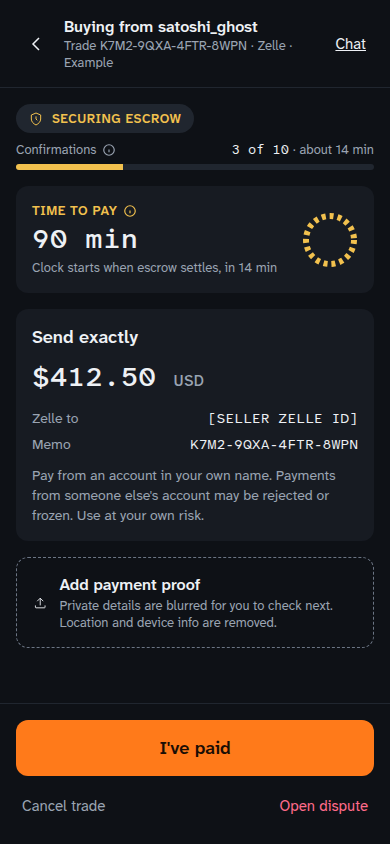
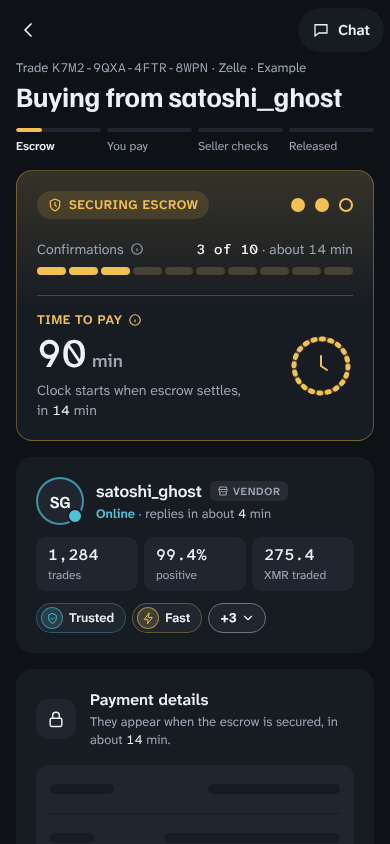
READY: BuyerPay board and parity reference refreshed for Q12 (escrow=securing)
design/x2f-app/BuyerPay.dc.html is the canvas board as published (escrow
securing: locked "Payment details" card, no I've paid). refs/BuyerPay.png
re-captured with tools/parity/capture-refs.ts; manifest updated.
serve-boards test passes.

Claude-Session: https://claude.ai/code/session_01XZAz2tn1YbpoyEtNYuAJim

diff --git a/design/x2f-app/BuyerPay.dc.html b/design/x2f-app/BuyerPay.dc.html
@@ -11,103 +11,216 @@
 <link rel="stylesheet" href="https://fonts.googleapis.com/css2?family=Familjen+Grotesk:wght@600;700&amp;family=Atkinson+Hyperlegible+Next:wght@400;600&amp;family=Atkinson+Hyperlegible+Mono:wght@400;500&amp;display=swap">
 <style>
 body{margin:0}
-a{color:#ff7a1a}a:hover{color:#ffa060}
-button:focus-visible,a:focus-visible,label:focus-within{outline:2px solid #eef1f5;outline-offset:2px}
+a{color:var(--monero-ink)}a:hover{color:var(--ink)}
+button:focus-visible,a:focus-visible,label:focus-within{outline:2px solid var(--ink);outline-offset:2px}
+button,a,label{transition:background-color 150ms ease-out,border-color 150ms ease-out,color 150ms ease-out}
+@media (prefers-reduced-motion: reduce){*{transition:none !important;animation:none !important}}
 </style>
 </helmet>
-<div style="width: 390px; height: 844px; box-sizing: border-box; background: #0e1116; color: #eef1f5; font-family: 'Atkinson Hyperlegible Next', system-ui, sans-serif; display: flex; flex-direction: column;">
-  <header style="display: flex; align-items: center; gap: 8px; padding: 16px; border-bottom: 1px solid #20262f;">
-    <a href="#" aria-label="Back to trades" style="display: flex; width: 44px; height: 44px; align-items: center; justify-content: center; color: #eef1f5;">
-      <svg width="24" height="24" viewBox="0 0 24 24" fill="none" stroke="currentColor" stroke-width="1.5" aria-hidden="true"><path d="M15 18l-6-6 6-6"/></svg>
-    </a>
-    <div style="display: flex; flex-direction: column; flex-grow: 1;">
-      <span style="font-size: 16px; font-weight: 600;">Buying from satoshi_ghost</span>
-      <span style="font-size: 13px; color: #9aa4b2;">Trade K7M2-9QXA-4FTR-8WPN · Zelle · Example</span>
+<div style="{{rootStyle}}">
+  <div style="position: relative; flex-shrink: 0; height: {{appH}}; overflow: hidden; display: flex; flex-direction: column;">
+  <header style="display: flex; flex-direction: column; padding: 8px 16px 16px;">
+    <div style="display: flex; align-items: center; justify-content: space-between; height: 44px; margin: 0 -10px;">
+      <a href="#" aria-label="Back to trades" style="display: flex; width: 44px; height: 44px; align-items: center; justify-content: center; border-radius: 12px; color: var(--ink);">
+        <svg width="24" height="24" viewBox="0 0 24 24" fill="none" stroke="currentColor" stroke-width="1.75" stroke-linecap="round" stroke-linejoin="round" aria-hidden="true"><path d="M15 18l-6-6 6-6"/></svg>
+      </a>
+      <a href="#" style="display: inline-flex; align-items: center; gap: 8px; height: 44px; padding: 0 14px; border-radius: 999px; background: var(--surface); color: var(--ink); font-size: 15px; font-weight: 600; text-decoration: none;">
+        <svg width="18" height="18" viewBox="0 0 24 24" fill="none" stroke="currentColor" stroke-width="1.75" stroke-linecap="round" stroke-linejoin="round" aria-hidden="true"><path d="M4 5h16v11H9l-5 4z"/></svg>
+        Chat
+      </a>
     </div>
-    <a href="#" style="display: flex; height: 44px; align-items: center; padding: 0 8px; font-size: 15px; color: #eef1f5;">Chat</a>
+    <span style="margin-top: 8px; font-size: 13px; line-height: 16px; color: var(--ink-muted);">Trade <span style="font-family: 'Atkinson Hyperlegible Mono', monospace; white-space: nowrap;">K7M2-9QXA-4FTR-8WPN</span> · Zelle · Example</span>
+    <h1 style="margin: 4px 0 0; font-family: 'Familjen Grotesk', sans-serif; font-size: 28px; line-height: 32px; font-weight: 700; letter-spacing: -0.01em;">Buying from satoshi_ghost</h1>
   </header>
 
-  <main style="display: flex; flex-direction: column; gap: 16px; padding: 16px; flex-grow: 1;">
-    <div style="position: relative; display: flex; gap: 8px; flex-wrap: wrap;">
-      <span style="display: inline-flex; align-items: center; gap: 8px; padding: 6px 12px; border-radius: 999px; background: #20262f; color: #f2c14e; font-size: 13px; font-weight: 600; letter-spacing: 0.04em; text-transform: uppercase;">
-        <svg width="16" height="16" viewBox="0 0 24 24" fill="none" stroke="currentColor" stroke-width="1.5" aria-hidden="true"><path d="M12 3l7 3v6c0 4-3 7-7 9-4-2-7-5-7-9V6z"/><path d="M12 8v4l2 2"/></svg>
-        Securing escrow
-      </span>
+  <ol aria-label="Trade progress" style="display: grid; grid-template-columns: repeat(4, 1fr); gap: 6px; margin: 0; padding: 0 16px 16px; list-style: none;">
+    <sc-for list="{{steps}}" as="s" hint-placeholder-count="4">
+      <li aria-current="{{s.current}}" style="display: flex; flex-direction: column; gap: 6px;">
+        <span style="display: block; height: 4px; border-radius: 999px; background: var(--surface-raised); overflow: hidden;"><span style="{{s.barStyle}}"></span></span>
+        <span style="{{s.labelStyle}}">{{s.label}}</span>
+      </li>
+    </sc-for>
+  </ol>
+
+  <main style="display: flex; flex-direction: column; gap: 16px; padding: 0 16px 24px; flex-grow: 1;">
+    <section aria-label="Escrow and payment time" style="display: flex; flex-direction: column; gap: 16px; padding: 20px; border-radius: 16px; background: linear-gradient(180deg, color-mix(in srgb, var(--caution) 14%, var(--surface)) 0%, var(--surface) 140px); border: 1px solid color-mix(in srgb, var(--caution) 35%, transparent);">
+      <div style="display: flex; align-items: center; justify-content: space-between; gap: 8px;">
+<sc-if value="{{securing}}" hint-placeholder-val="{{true}}">        <span style="display: inline-flex; align-items: center; gap: 6px; height: 28px; padding: 0 10px; border-radius: 999px; background: color-mix(in srgb, var(--caution) 14%, transparent); color: var(--caution); font-size: 13px; line-height: 16px; font-weight: 600; letter-spacing: 0.04em; text-transform: uppercase;">
+          <svg width="16" height="16" viewBox="0 0 24 24" fill="none" stroke="currentColor" stroke-width="1.75" stroke-linecap="round" stroke-linejoin="round" aria-hidden="true"><path d="M12 3l7 3v6c0 4-3 7-7 9-4-2-7-5-7-9V6z"/><path d="M12 8v4l2 2"/></svg>
+          Securing escrow
+        </span></sc-if>
+        <sc-if value="{{secured}}" hint-placeholder-val="{{false}}"><span style="display: inline-flex; align-items: center; gap: 6px; height: 28px; padding: 0 10px; border-radius: 999px; background: color-mix(in srgb, var(--caution) 14%, transparent); color: var(--caution); font-size: 13px; line-height: 16px; font-weight: 600; letter-spacing: 0.04em; text-transform: uppercase;"><svg width="16" height="16" viewBox="0 0 24 24" fill="none" stroke="currentColor" stroke-width="1.75" stroke-linecap="round" stroke-linejoin="round" aria-hidden="true"><circle cx="12" cy="12" r="9"/><path d="M12 7v5l3 2"/></svg>Pay now</span></sc-if>
+        <svg style="color: var(--caution);" width="62" height="14" viewBox="0 0 62 14" aria-hidden="true"><circle cx="7" cy="7" r="7" fill="currentColor"/><circle cx="31" cy="7" r="7" fill="currentColor"/><circle cx="55" cy="7" r="6" fill="none" stroke="currentColor" stroke-width="2"/></svg>
+      </div>
+
       <span style="position: relative; display: flex; width: 100%;">
-        <button type="button" aria-describedby="tip-rel" onMouseEnter="{{showRel}}" onMouseLeave="{{hide}}" onClick="{{toggleRel}}" style="display: flex; flex-direction: column; gap: 6px; width: 100%; padding: 0; border: 0; background: transparent; color: #9aa4b2; font-family: inherit; text-align: left; cursor: help;">
-          <span style="display: flex; justify-content: space-between; align-items: center; width: 100%; font-size: 13px;">
+        <button type="button" aria-describedby="tip-rel" onMouseEnter="{{showRel}}" onMouseLeave="{{hide}}" onClick="{{toggleRel}}" style="display: flex; flex-direction: column; justify-content: center; gap: 8px; width: 100%; min-height: 44px; padding: 0; border: 0; background: transparent; color: var(--ink-muted); font-family: inherit; text-align: left; cursor: help;">
+          <span style="display: flex; justify-content: space-between; align-items: center; width: 100%; font-size: 14px; line-height: 20px;">
             <span style="display: inline-flex; align-items: center; gap: 6px;">Confirmations
               <svg width="14" height="14" viewBox="0 0 24 24" fill="none" stroke="currentColor" stroke-width="2" aria-hidden="true"><circle cx="12" cy="12" r="9"/><path d="M12 11v5"/><path d="M12 8h.01"/></svg>
             </span>
-            <span><span style="font-family: 'Atkinson Hyperlegible Mono', monospace; color: #eef1f5;">3 of 10</span> · about 14 min</span>
+            <sc-if value="{{securing}}" hint-placeholder-val="{{true}}"><span><span style="font-family: 'Atkinson Hyperlegible Mono', monospace; font-weight: 500; color: var(--ink);">3 of 10</span> · about <span style="font-family: 'Atkinson Hyperlegible Mono', monospace;">14</span> min</span></sc-if><sc-if value="{{secured}}" hint-placeholder-val="{{false}}"><span><span style="font-family: 'Atkinson Hyperlegible Mono', monospace; font-weight: 500; color: var(--ink);">10 of 10</span> · secured</span></sc-if>
           </span>
-          <span role="progressbar" aria-label="Escrow confirmations" aria-valuemin="0" aria-valuemax="10" aria-valuenow="3" style="display: block; width: 100%; height: 6px; border-radius: 999px; background: #20262f; overflow: hidden;"><span style="display: block; width: 30%; height: 100%; background: #f2c14e;"></span></span>
+          <span role="progressbar" aria-label="Escrow confirmations" aria-valuemin="0" aria-valuemax="10" aria-valuenow="{{confNow}}" style="display: grid; grid-template-columns: repeat(10, 1fr); gap: 3px; width: 100%; height: 8px;">
+            <sc-for list="{{confs}}" as="c" hint-placeholder-count="10"><span style="{{c.style}}"></span></sc-for>
+          </span>
         </button>
         <sc-if value="{{relOpen}}" hint-placeholder-val="{{false}}">
-          <span id="tip-rel" role="tooltip" style="position: absolute; top: calc(100% + 8px); left: 0; z-index: 10; width: 300px; box-sizing: border-box; padding: 12px; border-radius: 12px; background: #20262f; border: 1px solid #6b7584; color: #eef1f5; font-size: 14px; line-height: 20px; font-weight: 400; letter-spacing: 0; text-transform: none;">The seller's XMR is already locked in the escrow. It's secured once the Monero network confirms it 10 times, about 20 min in total. For the safest trade, wait until this finishes before you pay. If you're comfortable with this seller, feel free to move the trade along now.</span>
+          <span id="tip-rel" role="tooltip" style="position: absolute; top: calc(100% + 8px); left: 0; z-index: 10; width: 300px; box-sizing: border-box; padding: 12px; border-radius: 12px; background: var(--surface-raised); border: 1px solid var(--line); color: var(--ink); font-size: 14px; line-height: 20px; font-weight: 400; letter-spacing: 0; text-transform: none;">The seller's XMR is already locked in the escrow. It's secured once the Monero network confirms it <span style="font-family: 'Atkinson Hyperlegible Mono', monospace;">10</span> times, about <span style="font-family: 'Atkinson Hyperlegible Mono', monospace;">20</span> min in total. For the safest trade, wait until this finishes before you pay. If you're comfortable with this seller, feel free to move the trade along now.</span>
         </sc-if>
       </span>
-    </div>
 
-    <section aria-label="Payment timer" style="position: relative; display: flex; align-items: center; justify-content: space-between; padding: 16px; border-radius: 12px; background: #171b22;">
-      <button type="button" aria-describedby="tip-pay" onMouseEnter="{{showPay}}" onMouseLeave="{{hide}}" onClick="{{togglePay}}" style="display: flex; flex-direction: column; align-items: flex-start; gap: 4px; padding: 0; border: 0; background: transparent; color: #eef1f5; font-family: inherit; text-align: left; cursor: help;">
-        <span style="display: inline-flex; align-items: center; gap: 6px; font-size: 13px; font-weight: 600; letter-spacing: 0.04em; text-transform: uppercase; color: #f2c14e;">Time to pay
-          <svg width="14" height="14" viewBox="0 0 24 24" fill="none" stroke="currentColor" stroke-width="2" aria-hidden="true"><circle cx="12" cy="12" r="9"/><path d="M12 11v5"/><path d="M12 8h.01"/></svg>
-        </span>
-        <span style="font-family: 'Atkinson Hyperlegible Mono', monospace; font-size: 28px; line-height: 32px; font-weight: 500;">90 min</span>
-        <span style="font-size: 13px; line-height: 18px; color: #9aa4b2;">Clock starts when escrow settles, in 14 min</span>
-      </button>
-      <sc-if value="{{payOpen}}" hint-placeholder-val="{{false}}">
-        <span id="tip-pay" role="tooltip" style="position: absolute; top: calc(100% + 8px); left: 0; z-index: 10; width: 280px; padding: 12px; border-radius: 12px; background: #20262f; border: 1px solid #6b7584; color: #eef1f5; font-size: 14px; line-height: 20px;">You get 90 minutes to send the money and tap I've paid. The clock starts once the escrow has settled, so waiting for it never costs you time. If time runs out without that tap, the seller can cancel and get a refund, or give you more time.</span>
-      </sc-if>
-      <svg width="56" height="56" viewBox="0 0 56 56" role="img" aria-label="90 of 90 minutes left, not started">
-        <circle cx="28" cy="28" r="24" fill="none" stroke="#f2c14e" stroke-width="6" stroke-dasharray="4 4"/>
-      </svg>
+      <div style="height: 1px; background: color-mix(in srgb, var(--caution) 25%, transparent);"></div>
+
+      <div style="position: relative; display: flex; align-items: center; justify-content: space-between; gap: 12px;">
+        <button type="button" aria-describedby="tip-pay" onMouseEnter="{{showPay}}" onMouseLeave="{{hide}}" onClick="{{togglePay}}" style="display: flex; flex-direction: column; align-items: flex-start; gap: 4px; padding: 0; border: 0; background: transparent; color: var(--ink); font-family: inherit; text-align: left; cursor: help;">
+          <span style="display: inline-flex; align-items: center; gap: 6px; font-size: 13px; line-height: 16px; font-weight: 600; letter-spacing: 0.04em; text-transform: uppercase; color: var(--caution);">Time to pay
+            <svg width="14" height="14" viewBox="0 0 24 24" fill="none" stroke="currentColor" stroke-width="2" aria-hidden="true"><circle cx="12" cy="12" r="9"/><path d="M12 11v5"/><path d="M12 8h.01"/></svg>
+          </span>
+          <span style="display: inline-flex; align-items: baseline; gap: 6px;"><span style="font-family: 'Atkinson Hyperlegible Mono', monospace; font-size: 40px; line-height: 44px; font-weight: 500; letter-spacing: -0.02em;">{{payMin}}</span><span style="font-size: 18px; line-height: 24px; font-weight: 600; color: var(--ink-muted);">min</span></span>
+          <sc-if value="{{securing}}" hint-placeholder-val="{{true}}"><span style="font-size: 14px; line-height: 20px; color: var(--ink-muted);">Clock starts when escrow settles, <span style="white-space: nowrap;">in <span style="font-family: 'Atkinson Hyperlegible Mono', monospace; color: var(--ink);">14</span> min</span></span></sc-if>
+        </button>
+        <sc-if value="{{payOpen}}" hint-placeholder-val="{{false}}">
+          <span id="tip-pay" role="tooltip" style="position: absolute; top: calc(100% + 8px); left: 0; z-index: 10; width: 280px; padding: 12px; border-radius: 12px; background: var(--surface-raised); border: 1px solid var(--line); color: var(--ink); font-size: 14px; line-height: 20px;">You get <span style="font-family: 'Atkinson Hyperlegible Mono', monospace;">90</span> min to send the money and tap I've paid. The clock starts once the escrow has settled, so waiting for it never costs you time. If time runs out without that tap, the seller can cancel and get a refund, or give you more time.</span>
+        </sc-if>
+<sc-if value="{{securing}}" hint-placeholder-val="{{true}}">        <svg style="flex-shrink: 0;" width="64" height="64" viewBox="0 0 64 64" role="img" aria-label="90 of 90 minutes left, not started">
+          <circle style="color: var(--caution);" cx="32" cy="32" r="27" fill="none" stroke="currentColor" stroke-opacity="0.2" stroke-width="5"/>
+          <circle style="color: var(--caution);" cx="32" cy="32" r="27" fill="none" stroke="currentColor" stroke-width="5" stroke-dasharray="2 6.48" stroke-linecap="round"/>
+          <path style="color: var(--caution);" d="M32 22v10l6 4" fill="none" stroke="currentColor" stroke-width="2" stroke-linecap="round" stroke-linejoin="round"/>
+        </svg></sc-if>
+        <sc-if value="{{secured}}" hint-placeholder-val="{{false}}"><svg style="flex-shrink: 0;" width="64" height="64" viewBox="0 0 64 64" role="img" aria-label="89 of 90 minutes left to pay"><circle style="color: var(--caution);" cx="32" cy="32" r="27" fill="none" stroke="currentColor" stroke-opacity="0.2" stroke-width="5"/><circle style="color: var(--caution);" cx="32" cy="32" r="27" fill="none" stroke="currentColor" stroke-width="5" stroke-linecap="round" stroke-dasharray="167.7 169.6" transform="rotate(-90 32 32)"/></svg></sc-if>
+      </div>
     </section>
 
-    <section aria-label="Send this payment" style="display: flex; flex-direction: column; gap: 12px; padding: 16px; border-radius: 12px; background: #171b22;">
-      <h2 style="margin: 0; font-size: 18px; line-height: 24px; font-weight: 600;">Send exactly</h2>
-      <span style="font-family: 'Atkinson Hyperlegible Mono', monospace; font-size: 28px; line-height: 32px; font-weight: 500;">$412.50 <span style="font-size: 16px; color: #9aa4b2;">USD</span></span>
-      <div style="display: flex; flex-direction: column; gap: 8px; font-size: 14px;">
-        <div style="display: flex; justify-content: space-between; gap: 8px;"><span style="color: #9aa4b2;">Zelle to</span><span style="font-family: 'Atkinson Hyperlegible Mono', monospace;">[SELLER ZELLE ID]</span></div>
-        <div style="display: flex; justify-content: space-between; gap: 8px;"><span style="color: #9aa4b2;">Memo</span><span style="font-family: 'Atkinson Hyperlegible Mono', monospace;">K7M2-9QXA-4FTR-8WPN</span></div>
+    <section aria-label="Seller" style="display: flex; flex-direction: column; padding: 20px; border-radius: 16px; background: var(--surface);"><div style="display: flex; flex-direction: column; gap: 12px;"><div style="display: flex; align-items: center; gap: 12px;"><span style="position: relative; display: flex; flex-shrink: 0; width: 48px; height: 48px; box-sizing: border-box; align-items: center; justify-content: center; border-radius: 999px; background: var(--surface-raised); border: 2px solid color-mix(in srgb, var(--escrow) 70%, transparent); font-family: 'Familjen Grotesk', sans-serif; font-size: 17px; font-weight: 700; letter-spacing: -0.01em;">SG<span aria-label="Online" style="position: absolute; right: -1px; bottom: -1px; width: 12px; height: 12px; border-radius: 999px; background: var(--escrow); border: 2.5px solid var(--surface);"></span></span><span style="display: flex; flex-direction: column; gap: 3px; min-width: 0;"><span style="display: flex; align-items: center; gap: 8px;"><span style="font-size: 17px; line-height: 22px; font-weight: 600;">satoshi_ghost</span><span style="display: inline-flex; align-items: center; gap: 4px; height: 20px; padding: 0 7px; border-radius: 6px; background: color-mix(in srgb, var(--ink) 8%, transparent); color: var(--ink-muted); font-size: 11px; line-height: 14px; font-weight: 600; letter-spacing: 0.06em; text-transform: uppercase;"><svg width="12" height="12" viewBox="0 0 24 24" fill="none" stroke="currentColor" stroke-width="2" stroke-linecap="round" stroke-linejoin="round" aria-hidden="true"><path d="M4 9l1.5-5h13L20 9"/><path d="M4 9h16v2a3 3 0 01-5.3 1.9A3 3 0 0112 14a3 3 0 01-2.7-1.1A3 3 0 014 11z"/><path d="M5.5 14v6h13v-6"/></svg>Vendor</span></span><span style="font-size: 13px; line-height: 18px; color: var(--ink-muted);"><span style="color: var(--escrow); font-weight: 600;">Online</span> · replies in about <span style="font-family: 'Atkinson Hyperlegible Mono', monospace; color: var(--ink);">4</span> min</span></span></div><div style="display: grid; grid-template-columns: repeat(3, 1fr); gap: 6px;"><span style="display: flex; flex-direction: column; gap: 2px; padding: 8px 12px; border-radius: 10px; background: var(--surface-raised); min-width: 0;"><span style="font-family: 'Atkinson Hyperlegible Mono', monospace; font-size: 16px; line-height: 20px; font-weight: 500;">1,284</span><span style="font-size: 12px; line-height: 16px; color: var(--ink-muted);">trades</span></span><span style="display: flex; flex-direction: column; gap: 2px; padding: 8px 12px; border-radius: 10px; background: var(--surface-raised); min-width: 0;"><span style="font-family: 'Atkinson Hyperlegible Mono', monospace; font-size: 16px; line-height: 20px; font-weight: 500;">99.4%</span><span style="font-size: 12px; line-height: 16px; color: var(--ink-muted);">positive</span></span><span style="display: flex; flex-direction: column; gap: 2px; padding: 8px 12px; border-radius: 10px; background: var(--surface-raised); min-width: 0;"><span style="font-family: 'Atkinson Hyperlegible Mono', monospace; font-size: 16px; line-height: 20px; font-weight: 500;">275.4</span><span style="font-size: 12px; line-height: 16px; color: var(--ink-muted);">XMR traded</span></span></div><div style="display: flex; flex-wrap: wrap; gap: 6px; align-items: center;"><button type="button" aria-haspopup="dialog" aria-label="Trusted badge: 200+ trades and 98%+ positive." style="display: inline-flex; align-items: center; height: 44px; margin: -7px 0; padding: 0; border: 0; background: transparent; color: inherit; font: inherit; cursor: pointer;"><span style="display: inline-flex; align-items: center; gap: 6px; height: 30px; padding: 0 11px 0 4px; box-sizing: border-box; border-radius: 999px; background: var(--surface-raised); border: 1px solid color-mix(in srgb, var(--escrow) 32%, transparent); font-size: 13px; line-height: 16px; font-weight: 600; color: var(--ink); white-space: nowrap;"><span aria-hidden="true" style="display: flex; flex-shrink: 0; width: 22px; height: 22px; box-sizing: border-box; align-items: center; justify-content: center; border-radius: 999px; background: color-mix(in srgb, var(--escrow) 16%, var(--surface-raised)); border: 1px solid color-mix(in srgb, var(--escrow) 55%, transparent); color: var(--escrow);"><svg width="13" height="13" viewBox="0 0 24 24" fill="none" stroke="currentColor" stroke-width="1.75" stroke-linecap="round" stroke-linejoin="round" aria-hidden="true"><path d="M12 3l7 3v6c0 4-3 7-7 9-4-2-7-5-7-9V6z"/><path d="M9 12l2 2 4-4"/></svg></span>Trusted</span></button><button type="button" aria-haspopup="dialog" aria-label="Fast badge: Usually pays or releases within 10 min." style="display: inline-flex; align-items: center; height: 44px; margin: -7px 0; padding: 0; border: 0; background: transparent; color: inherit; font: inherit; cursor: pointer;"><span style="display: inline-flex; align-items: center; gap: 6px; height: 30px; padding: 0 11px 0 4px; box-sizing: border-box; border-radius: 999px; background: var(--surface-raised); border: 1px solid color-mix(in srgb, var(--caution) 32%, transparent); font-size: 13px; line-height: 16px; font-weight: 600; color: var(--ink); white-space: nowrap;"><span aria-hidden="true" style="display: flex; flex-shrink: 0; width: 22px; height: 22px; box-sizing: border-box; align-items: center; justify-content: center; border-radius: 999px; background: color-mix(in srgb, var(--caution) 16%, var(--surface-raised)); border: 1px solid color-mix(in srgb, var(--caution) 55%, transparent); color: var(--caution);"><svg width="13" height="13" viewBox="0 0 24 24" fill="none" stroke="currentColor" stroke-width="1.75" stroke-linecap="round" stroke-linejoin="round" aria-hidden="true"><path d="M13 2L4 14h7l-1 8 9-12h-7z"/></svg></span>Fast</span></button><button type="button" aria-haspopup="dialog" aria-expanded="false" aria-label="3 more badges" style="display: inline-flex; align-items: center; height: 44px; margin: -7px 0; padding: 0; border: 0; background: transparent; color: inherit; font: inherit; cursor: pointer;"><span style="display: inline-flex; align-items: center; gap: 4px; height: 30px; padding: 0 10px 0 11px; box-sizing: border-box; border-radius: 999px; border: 1px solid var(--line); background: var(--surface-raised); color: var(--ink); font-size: 13px; line-height: 16px; font-weight: 600;"><span style="font-family: 'Atkinson Hyperlegible Mono', monospace;">+3</span><svg width="14" height="14" viewBox="0 0 24 24" fill="none" stroke="currentColor" stroke-width="2" stroke-linecap="round" stroke-linejoin="round" aria-hidden="true"><path d="M6 9l6 6 6-6"/></svg></span></button></div></div></section>
+
+    <sc-if value="{{securing}}" hint-placeholder-val="{{true}}">
+    <section aria-labelledby="send-title-locked" style="display: flex; flex-direction: column; gap: 16px; padding: 20px; border-radius: 16px; background: var(--surface);">
+      <div style="display: flex; align-items: center; gap: 14px;"><span style="display: flex; flex-shrink: 0; width: 40px; height: 40px; align-items: center; justify-content: center; border-radius: 12px; background: var(--surface-raised); color: var(--ink);"><svg width="20" height="20" viewBox="0 0 24 24" fill="none" stroke="currentColor" stroke-width="1.75" stroke-linecap="round" stroke-linejoin="round" aria-hidden="true"><rect x="5" y="11" width="14" height="10" rx="2"/><path d="M8 11V8a4 4 0 018 0v3"/></svg></span><span style="display: flex; flex-direction: column; gap: 2px; min-width: 0;"><h2 id="send-title-locked" style="margin: 0; font-size: 16px; line-height: 22px; font-weight: 600;">Payment details</h2><span style="font-size: 13px; line-height: 18px; color: var(--ink-muted);">They appear when the escrow is secured, in about <span style="font-family: 'Atkinson Hyperlegible Mono', monospace; color: var(--ink);">14</span> min.</span></span></div>
+      <div aria-hidden="true" style="display: flex; flex-direction: column; border-radius: 12px; background: var(--surface-raised);"><div style="display: flex; justify-content: space-between; align-items: center; gap: 8px; min-height: 48px; padding: 0 14px;"><span style="display: block; width: 64px; height: 10px; border-radius: 999px; background: var(--surface);"></span><span style="display: block; width: 132px; height: 10px; border-radius: 999px; background: var(--surface);"></span></div><div style="height: 1px; margin: 0 14px; background: var(--surface);"></div><div style="display: flex; justify-content: space-between; align-items: center; gap: 8px; min-height: 48px; padding: 0 14px;"><span style="display: block; width: 44px; height: 10px; border-radius: 999px; background: var(--surface);"></span><span style="display: block; width: 176px; height: 10px; border-radius: 999px; background: var(--surface);"></span></div></div>
+      <div style="display: flex; gap: 10px; align-items: flex-start; padding: 12px 14px; border-radius: 12px; background: color-mix(in srgb, var(--caution) 10%, var(--surface)); border: 1px solid color-mix(in srgb, var(--caution) 30%, transparent);">
+        <svg style="flex-shrink: 0; margin-top: 1px; color: var(--caution);" width="18" height="18" viewBox="0 0 24 24" fill="none" stroke="currentColor" stroke-width="1.75" stroke-linecap="round" stroke-linejoin="round" aria-hidden="true"><path d="M12 4l9 16H3z"/><path d="M12 10v4"/><path d="M12 17h.01"/></svg>
+        <p style="margin: 0; font-size: 14px; line-height: 20px; color: var(--ink);">Pay from an account in your own name. Payments from someone else's account may be rejected or frozen. Use at your own risk.</p>
       </div>
-      <p style="margin: 0; font-size: 14px; line-height: 20px; color: #9aa4b2;">Pay from an account in your own name. Payments from someone else's account may be rejected or frozen. Use at your own risk.</p>
+    </section>
+    </sc-if>
+    <sc-if value="{{secured}}" hint-placeholder-val="{{false}}">
+    <section aria-labelledby="send-title" style="display: flex; flex-direction: column; gap: 16px; padding: 20px; border-radius: 16px; background: var(--surface);">
+      <div style="display: flex; flex-direction: column; gap: 4px;">
+        <h2 id="send-title" style="margin: 0; font-size: 18px; line-height: 24px; font-weight: 600;">Send exactly</h2>
+        <span style="display: inline-flex; align-items: baseline; gap: 8px;"><span style="font-family: 'Atkinson Hyperlegible Mono', monospace; font-size: 40px; line-height: 44px; font-weight: 500; letter-spacing: -0.02em;">$412.50</span><span style="font-size: 16px; line-height: 24px; font-weight: 600; color: var(--ink-muted);">USD</span></span>
+      </div>
+      <dl style="display: flex; flex-direction: column; margin: 0; border-radius: 12px; background: var(--surface-raised);">
+        <div style="display: flex; justify-content: space-between; align-items: center; gap: 8px; min-height: 48px; padding: 0 14px; font-size: 14px; line-height: 20px;"><dt style="color: var(--ink-muted);">Zelle to</dt><dd style="margin: 0; font-family: 'Atkinson Hyperlegible Mono', monospace; font-size: 15px; font-weight: 500;">•••-•••-4471</dd></div>
+        <div style="height: 1px; margin: 0 14px; background: var(--surface);"></div>
+        <div style="display: flex; justify-content: space-between; align-items: center; gap: 8px; min-height: 48px; padding: 0 14px; font-size: 14px; line-height: 20px;"><dt style="color: var(--ink-muted);">Memo</dt><dd style="margin: 0; font-family: 'Atkinson Hyperlegible Mono', monospace; font-size: 15px; font-weight: 500;">K7M2-9QXA-4FTR-8WPN</dd></div>
+      </dl>
+      <div style="display: flex; gap: 10px; align-items: flex-start; padding: 12px 14px; border-radius: 12px; background: color-mix(in srgb, var(--caution) 10%, var(--surface)); border: 1px solid color-mix(in srgb, var(--caution) 30%, transparent);">
+        <svg style="flex-shrink: 0; margin-top: 1px; color: var(--caution);" width="18" height="18" viewBox="0 0 24 24" fill="none" stroke="currentColor" stroke-width="1.75" stroke-linecap="round" stroke-linejoin="round" aria-hidden="true"><path d="M12 4l9 16H3z"/><path d="M12 10v4"/><path d="M12 17h.01"/></svg>
+        <p style="margin: 0; font-size: 14px; line-height: 20px; color: var(--ink);">Pay from an account in your own name. Payments from someone else's account may be rejected or frozen. Use at your own risk.</p>
+      </div>
     </section>
 
     <div style="position: relative;">
     <sc-if value="{{proofOpen}}" hint-placeholder-val="{{false}}">
-      <span id="tip-proof" role="tooltip" style="position: absolute; bottom: calc(100% + 8px); left: 0; right: 0; z-index: 10; padding: 12px; border-radius: 12px; background: #20262f; border: 1px solid #6b7584; color: #eef1f5; font-size: 14px; line-height: 20px;">Our system does its best to blur out private, personal and confidential information automatically, but please double-check every detail yourself before you send it.</span>
+      <span id="tip-proof" role="tooltip" style="position: absolute; bottom: calc(100% + 8px); left: 0; right: 0; z-index: 10; padding: 12px; border-radius: 12px; background: var(--surface-raised); border: 1px solid var(--line); color: var(--ink); font-size: 14px; line-height: 20px;">Our system does its best to blur out private, personal and confidential information automatically, but please double-check every detail yourself before you send it.</span>
     </sc-if>
-    <label for="proof" onMouseEnter="{{showProof}}" onMouseLeave="{{hide}}" style="display: flex; align-items: center; gap: 12px; padding: 16px; border-radius: 12px; border: 1px dashed #6b7584; cursor: pointer;">
-      <svg width="24" height="24" viewBox="0 0 24 24" fill="none" stroke="#eef1f5" stroke-width="1.5" aria-hidden="true"><path d="M12 16V4"/><path d="M7 9l5-5 5 5"/><path d="M4 16v3a1 1 0 001 1h14a1 1 0 001-1v-3"/></svg>
+    <label for="proof" onMouseEnter="{{showProof}}" onMouseLeave="{{hide}}" style="display: flex; align-items: center; gap: 14px; min-height: 64px; padding: 16px; border-radius: 16px; border: 1.5px dashed var(--line); cursor: pointer;">
+      <span style="display: flex; flex-shrink: 0; width: 40px; height: 40px; align-items: center; justify-content: center; border-radius: 12px; background: var(--surface-raised); color: var(--ink);">
+        <svg width="20" height="20" viewBox="0 0 24 24" fill="none" stroke="currentColor" stroke-width="1.75" stroke-linecap="round" stroke-linejoin="round" aria-hidden="true"><path d="M12 16V4"/><path d="M7 9l5-5 5 5"/><path d="M4 16v3a1 1 0 001 1h14a1 1 0 001-1v-3"/></svg>
+      </span>
       <span style="display: flex; flex-direction: column; gap: 2px;">
-        <span style="font-size: 16px; font-weight: 600;">Add payment proof</span>
-        <span style="font-size: 13px; color: #9aa4b2;">Private details are blurred for you to check next. Location and device info are removed.</span>
+        <span style="font-size: 16px; line-height: 22px; font-weight: 600;">Add payment proof</span>
+        <span style="font-size: 13px; line-height: 18px; color: var(--ink-muted);">Private details are blurred for you to check next. Location and device info are removed.</span>
       </span>
       <input id="proof" type="file" accept="image/*" aria-describedby="tip-proof" style="position: absolute; width: 1px; height: 1px; opacity: 0;">
     </label>
     </div>
+    </sc-if>
   </main>
 
-  <footer style="display: flex; flex-direction: column; gap: 8px; padding: 16px; border-top: 1px solid #20262f;">
-    <a href="SellerConfirm.dc.html" style="display: flex; align-items: center; justify-content: center; height: 56px; border-radius: 12px; background: #ff7a1a; color: #1a0e05; font-size: 18px; font-weight: 600; text-decoration: none;">I've paid</a>
+  <footer style="display: flex; flex-direction: column; gap: 4px; padding: 16px 16px 8px; border-top: 1px solid var(--surface-raised); background: var(--ground);">
+<sc-if value="{{secured}}" hint-placeholder-val="{{false}}">    <button type="button" onClick="{{openConfirm}}" style="display: flex; align-items: center; justify-content: center; height: 56px; border: 0; border-radius: 12px; background: var(--monero); color: var(--on-monero); font-family: inherit; font-size: 18px; font-weight: 600; cursor: pointer;">I've paid</button></sc-if>
+    <sc-if value="{{securing}}" hint-placeholder-val="{{true}}"><button type="button" disabled aria-describedby="pay-when" style="height: 56px; border: 0; border-radius: 12px; background: var(--surface-raised); color: var(--ink-muted); font-family: inherit; font-size: 18px; font-weight: 600; cursor: not-allowed;">I've paid</button><span id="pay-when" style="padding: 4px 8px 0; font-size: 13px; line-height: 18px; color: var(--ink-muted); text-align: center;">Opens once the escrow is secured.</span></sc-if>
     <div style="display: flex; justify-content: space-between;">
-      <button type="button" style="height: 44px; border: 0; background: transparent; color: #9aa4b2; font-family: inherit; font-size: 15px; cursor: pointer;">Cancel trade</button>
-      <button type="button" style="height: 44px; border: 0; background: transparent; color: #ff6b8a; font-family: inherit; font-size: 15px; cursor: pointer;">Open dispute</button>
+      <a href="CancelRequest.dc.html" style="display: inline-flex; align-items: center; height: 44px; padding: 0 8px; color: var(--ink-muted); font-size: 15px; font-weight: 600; text-decoration: none;">Cancel trade</a>
+      <button type="button" style="height: 44px; padding: 0 8px; border: 0; background: transparent; color: var(--danger); font-family: inherit; font-size: 15px; font-weight: 600; cursor: pointer;">Open dispute</button>
     </div>
   </footer>
+
+  <sc-if value="{{confirmOpen}}" hint-placeholder-val="{{false}}">
+    <div style="position: absolute; inset: 0; background: var(--scrim); display: flex; align-items: flex-end;">
+      <section role="dialog" aria-modal="true" aria-labelledby="paid-title" style="width: 100%; box-sizing: border-box; padding: 12px 16px 16px; border-radius: 16px 16px 0 0; background: var(--surface); border-top: 1px solid var(--surface-raised); display: flex; flex-direction: column; gap: 16px;">
+        <span aria-hidden="true" style="align-self: center; width: 36px; height: 4px; border-radius: 999px; background: var(--line);"></span>
+        <h2 id="paid-title" style="margin: 4px 0 0; font-family: 'Familjen Grotesk', sans-serif; font-size: 24px; line-height: 30px; font-weight: 700; letter-spacing: -0.01em;">Mark this trade as paid?</h2>
+        <label for="paid-check" style="{{tickBoxStyle}}">
+          <input id="paid-check" type="checkbox" checked="{{ticked}}" onChange="{{toggleTick}}" style="width: 22px; height: 22px; margin: 1px 0 0; accent-color: var(--ink); flex-shrink: 0;">
+          <span>I sent exactly <strong style="font-family: 'Atkinson Hyperlegible Mono', monospace; font-weight: 500;">$412.50</strong> by Zelle with the memo <span style="font-family: 'Atkinson Hyperlegible Mono', monospace; white-space: nowrap;">K7M2-9QXA-4FTR-8WPN</span>.</span>
+        </label>
+        <p style="margin: 0; font-size: 15px; line-height: 22px; color: var(--ink-muted);">After this you can't cancel the trade. If something goes wrong, open a dispute.</p>
+        <div style="display: flex; flex-direction: column; gap: 8px;">
+          <sc-if value="{{ticked}}" hint-placeholder-val="{{false}}">
+            <a href="SellerConfirm.dc.html" style="display: flex; align-items: center; justify-content: center; height: 56px; border-radius: 12px; background: var(--monero); color: var(--on-monero); font-size: 18px; font-weight: 600; text-decoration: none;">Yes, mark as paid</a>
+          </sc-if>
+          <sc-if value="{{notTicked}}" hint-placeholder-val="{{true}}">
+            <button type="button" disabled style="height: 56px; border: 0; border-radius: 12px; background: var(--surface-raised); color: var(--ink-muted); font-family: inherit; font-size: 18px; font-weight: 600; cursor: not-allowed;">Yes, mark as paid</button>
+          </sc-if>
+          <button type="button" onClick="{{closeConfirm}}" style="height: 48px; border: 1px solid var(--line); border-radius: 12px; background: transparent; color: var(--ink); font-family: inherit; font-size: 16px; font-weight: 600; cursor: pointer;">Not yet</button>
+        </div>
+      </section>
+    </div>
+  </sc-if>
+  </div>
+
+  <section aria-label="Design notes" style="flex-shrink: 0; display: flex; flex-direction: column; gap: 12px; padding: 24px 16px; border-top: 1px solid var(--line);">
+    <h2 style="margin: 0; font-family: 'Atkinson Hyperlegible Mono', monospace; font-size: 12px; line-height: 16px; font-weight: 500; letter-spacing: 0.04em; text-transform: uppercase; color: var(--ink-muted);">Design notes</h2>
+    <aside aria-label="Decided by the owner: Nothing tells the buyer to pay until the escrow is fully in" style="display: flex; flex-direction: column; gap: 6px; padding: 10px 12px; border-radius: 6px; border: 1px solid var(--line); font-size: 13px; line-height: 18px; color: var(--ink);"><span style="font-family: 'Atkinson Hyperlegible Mono', monospace; font-size: 12px; line-height: 16px; font-weight: 500; letter-spacing: 0.04em; text-transform: uppercase; color: var(--ink-muted);">Decided · owner, 6 Nov (Q12)</span><span style="font-weight: 600;">Nothing tells the buyer to pay until the escrow is fully in</span><ul style="margin: 0; padding-left: 18px; display: flex; flex-direction: column; gap: 2px;"><li>Until the escrow is secured, no screen, glance, notification or Fold cover says "Pay now" or shows payment details as an instruction, and "I've paid" is not offered.</li><li>This holds in the trade room and in every glance (Desktop list, Fold cover, push notification).</li><li>Even for trusted sellers. Revisit only if feedback asks for it.</li></ul></aside>
+    <aside aria-label="Open: what the buyer sees as the seller's Zelle ID" style="display: flex; flex-direction: column; gap: 6px; padding: 10px 12px; border-radius: 6px; border: 1px dashed var(--caution); font-size: 13px; line-height: 18px; color: var(--ink);">
+      <span style="font-family: 'Atkinson Hyperlegible Mono', monospace; font-size: 12px; line-height: 16px; font-weight: 500; letter-spacing: 0.04em; text-transform: uppercase; color: var(--caution);">Open · owner to choose</span>
+      <span style="font-weight: 600;">What does the "Zelle to" row show? The masked phone number above is an example.</span>
+      <ul style="margin: 0; padding-left: 18px; display: flex; flex-direction: column; gap: 2px;"><li>The seller's phone number, masked until escrow settles</li><li>The seller's full phone number</li><li>A Zelle name tag the seller sets on their offer</li></ul>
+    </aside>
+  </section>
 </div>
 </x-dc>
-<script type="text/x-dc" data-dc-script data-props='{"$preview":{"width":390,"height":844}}'>
+<script type="text/x-dc" data-dc-script data-props='{"theme":{"editor":"enum","options":["night","day"],"default":"night"},"escrow":{"editor":"enum","options":["securing","secured"],"default":"securing"},"$preview":{"width":390,"height":1668}}'>
 class Component extends DCLogic {
   constructor(props) {
     super(props);
-    this.state = { tip: null };
+    this.state = { tip: null, confirm: false, ticked: false };
   }
   renderVals() {
+    const THEMES = {
+      night: '--ground:#0e1116;--surface:#171b22;--surface-raised:#20262f;--line:#6b7584;--ink:#eef1f5;--ink-muted:#9aa4b2;--monero:#ff6600;--monero-ink:#ff6600;--on-monero:#1a0e05;--escrow:#4cc3d9;--caution:#f2c14e;--danger:#ff6b8a;--scrim:rgba(0,0,0,0.6);--mod:#b69cff;--team:#7aa2ff;',
+      day: '--ground:#f5f6f8;--surface:#ffffff;--surface-raised:#eceef2;--line:#7a8494;--ink:#12161c;--ink-muted:#566070;--monero:#ff6600;--monero-ink:#b84a00;--on-monero:#1a0e05;--escrow:#0b7285;--caution:#8a5a00;--danger:#c2255c;--scrim:rgba(18,22,28,0.45);--mod:#6741d9;--team:#2f5bd3;'
+    };
+    const theme = this.props.theme === 'day' ? 'day' : 'night';
+    const secured = this.props.escrow === 'secured';
+    // Measured (night, fonts loaded): app screen per escrow state; design notes 485 under it.
+    const APP_H = secured ? 1239 : 1183;
+    const H = APP_H + 485;
+    const rootStyle = THEMES[theme] + "position: relative; overflow: hidden; width: 390px; height: " + H + "px; box-sizing: border-box; background: var(--ground); color: var(--ink); font-family: 'Atkinson Hyperlegible Next', system-ui, sans-serif; display: flex; flex-direction: column;";
     const tip = this.state.tip;
-    return {
+    // Stepper: step 0 is current (escrow 3 of 10), later steps upcoming.
+    const STEP_LABELS = ['Escrow', 'You pay', 'Seller checks', 'Released'];
+    const current = secured ? 1 : 0;
+    const steps = STEP_LABELS.map((label, i) => ({
+      label,
+      current: i === current ? 'step' : 'false',
+      barStyle: 'display: block; height: 100%; border-radius: 999px; ' + (i < current ? 'width: 100%; background: var(--escrow);' : i === current ? 'width: ' + (secured ? 2 : 30) + '%; background: var(--caution);' : 'width: 0;'),
+      labelStyle: 'font-size: 12px; line-height: 16px; ' + (i === current ? 'font-weight: 600; color: var(--ink);' : 'color: var(--ink-muted);')
+    }));
+    const confs = Array.from({ length: 10 }, (_, i) => ({ style: 'display: block; border-radius: 999px; background: ' + (secured ? 'var(--escrow);' : (i < 3 ? 'var(--caution);' : 'color-mix(in srgb, var(--caution) 18%, var(--surface-raised));')) }));
+    const ticked = this.state.ticked;
+    const tickBoxStyle = 'display: flex; align-items: flex-start; gap: 12px; min-height: 44px; padding: 14px; border-radius: 12px; font-size: 16px; line-height: 24px; cursor: pointer; background: var(--surface-raised); border: 2px solid ' + (ticked ? 'var(--ink);' : 'transparent;');
+    return { rootStyle, steps, confs, tickBoxStyle,
+      securing: !secured, secured, appH: APP_H + 'px', payMin: secured ? '89' : '90', confNow: secured ? '10' : '3',
+      confirmOpen: this.state.confirm,
+      ticked,
+      notTicked: !ticked,
+      openConfirm: () => this.setState({ confirm: true, ticked: false }),
+      closeConfirm: () => this.setState({ confirm: false }),
+      toggleTick: () => this.setState({ ticked: !this.state.ticked }),
       relOpen: tip === 'rel',
       payOpen: tip === 'pay',
       proofOpen: tip === 'proof',
